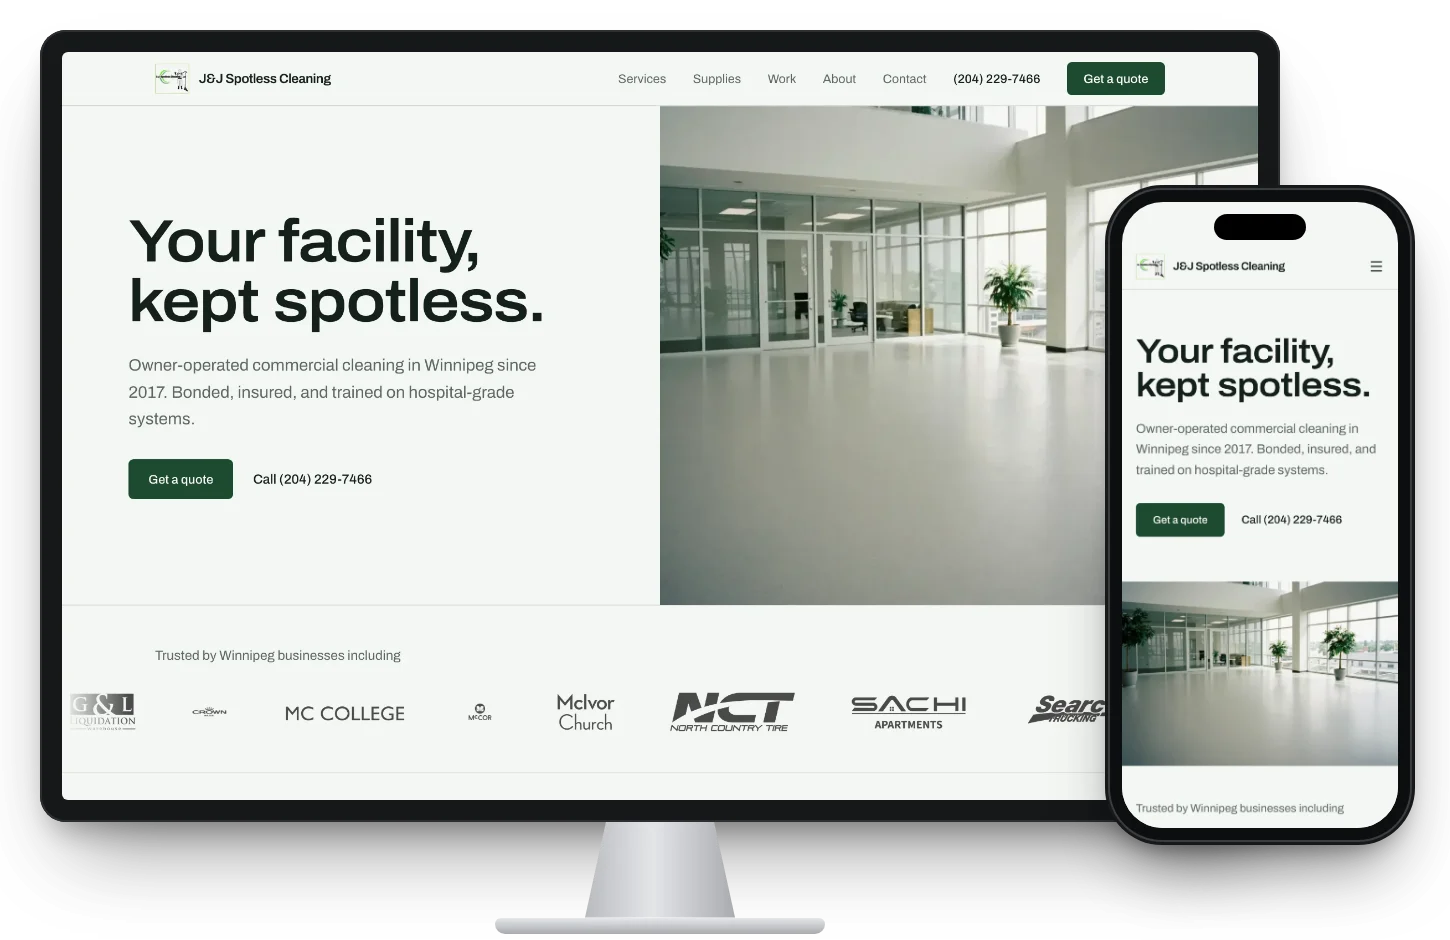
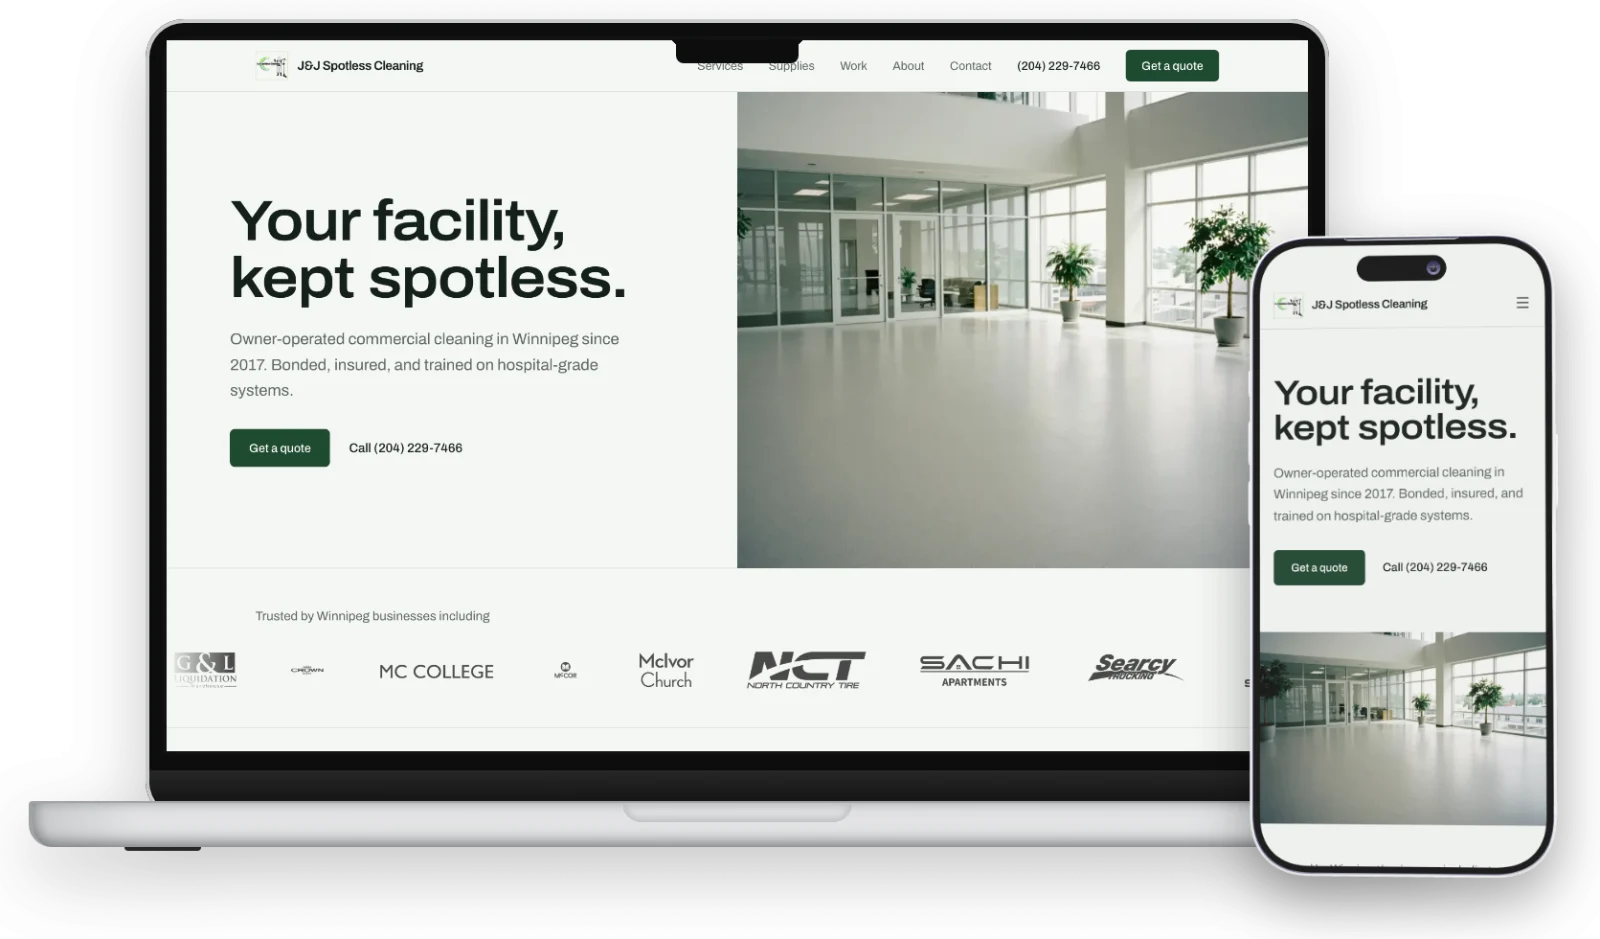
approve

diff --git a/app/components/Footer.jsx b/app/components/Footer.jsx
@@ -45,7 +45,12 @@ export default function Footer() {
               </a>
               {i < all.length - 1 ? ', ' : '.'}
             </span>
-          ))}
+          ))}{' '}
+          Work mockups use the{' '}
+          <a href="https://sketchfab.com/3d-models/iphone-17-pro-4541aa8a28324b33a2baaf81d263aaec" rel="noopener noreferrer">
+            iPhone 17 Pro model by Ranguel
+          </a>{' '}
+          (CC BY 4.0) via Phone Mockup Studio, and devices.css.
         </p>
       </div>
     </footer>
